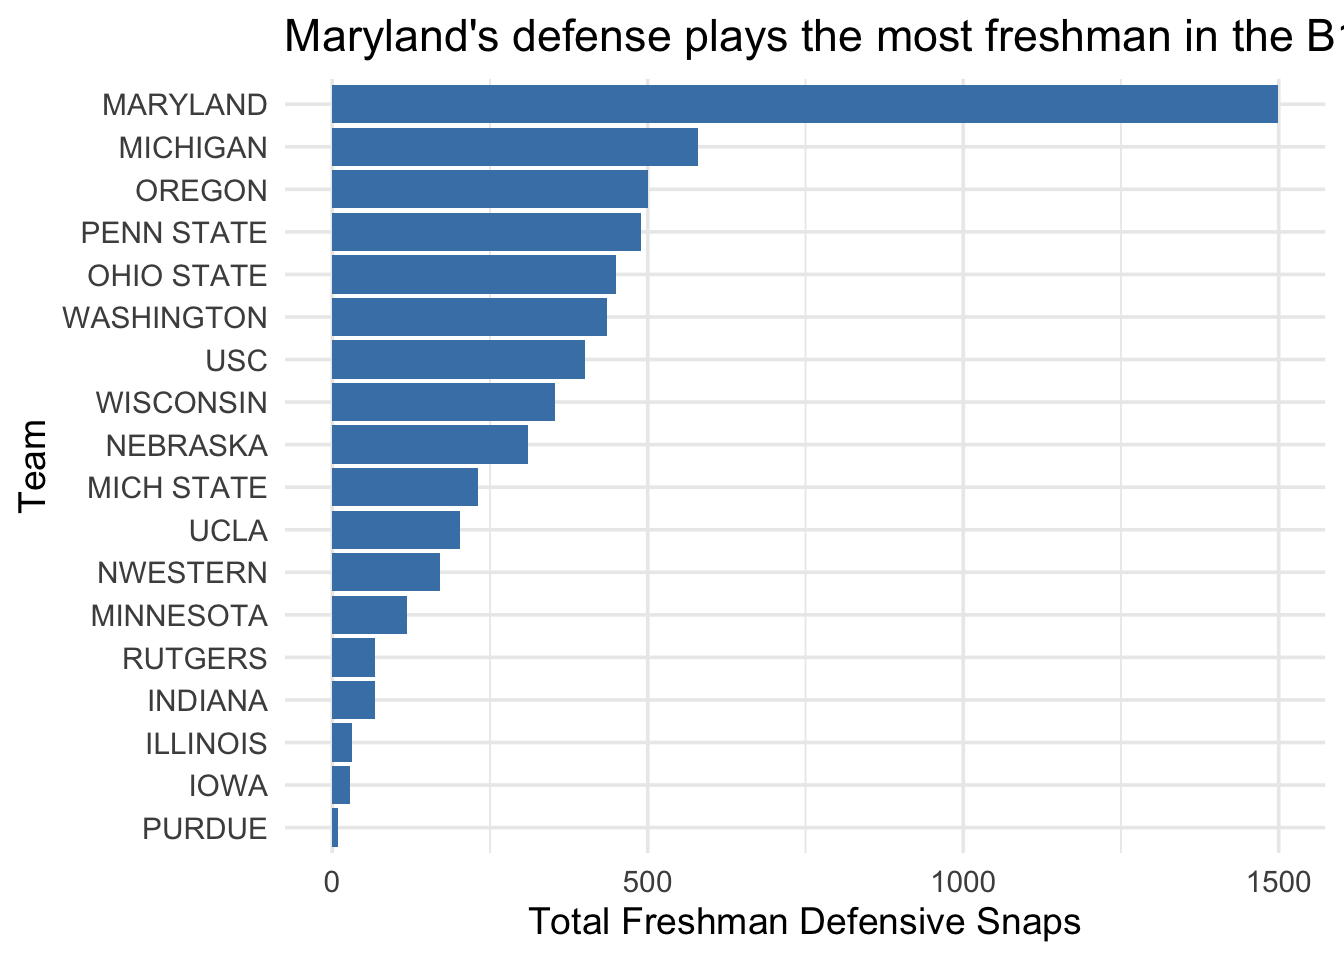
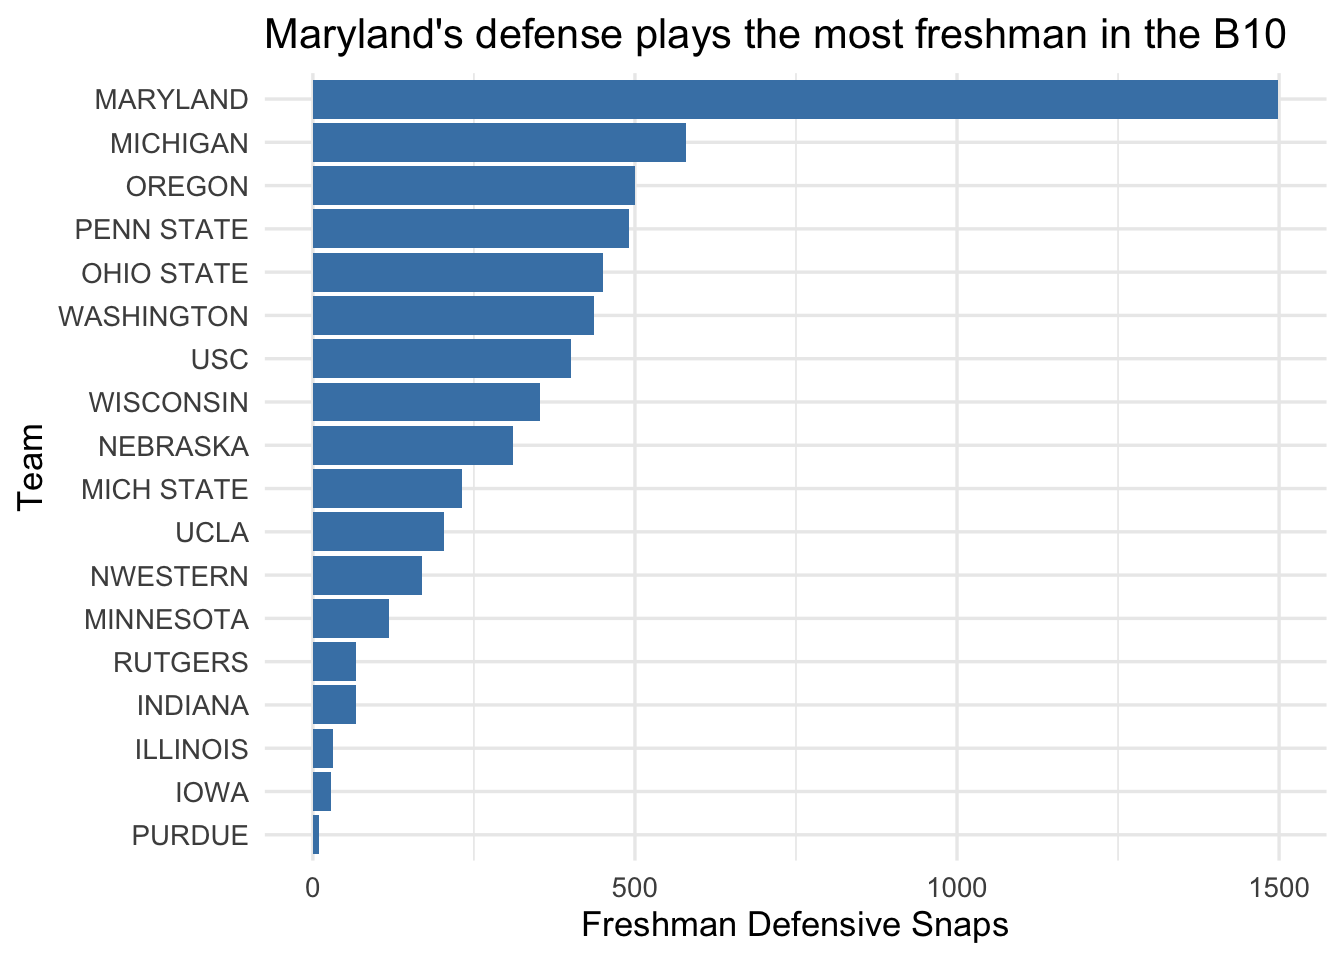
presentation

diff --git a/docs/posts/presentation/presentation.html b/docs/posts/presentation/presentation.html
@@ -617,7 +617,7 @@ lgl  (1): draft_season
 <span id="cb50-4"><a href="#cb50-4" aria-hidden="true" tabindex="-1"></a>  <span class="fu">arrange</span>(<span class="fu">desc</span>(total_snap_counts_defense))</span></code></pre></div><button title="Copy to Clipboard" class="code-copy-button"><i class="bi"></i></button></div>
 </details>
 </div>
-<p>But how do they stack up compared to the Big Ten? Well, historically high. The number of snaps defensive freshman have played for the Terps this season is signficantly higher than the rest of the conference. In fact, the next closest team – Michian – has played freshman almost a third of the time compared to Maryland. The youngest team is going through struggles and while some of this can be placed on the Terps youthness, these are also experienced players at this point. Locksley said the same thing at his recent presser, saying the freshman have become experienced at this point. At this point, Maryland has no excuses</p>
+<p>But how do they stack up compared to the Big Ten? Well, historically high. The number of snaps defensive freshman have played for the Terps this season is signficantly higher than the rest of the conference. In fact, the next closest team – Michian – has played freshman almost a third of the time compared to Maryland. The youngest team is going through struggles and while some of this can be placed on the Terps youthness, these are also experienced players at this point. Locksley said the same thing at his recent presser, saying the freshman have become experienced at this point. At this point, Maryland has no excuses.</p>
 <div class="cell">
 <details class="code-fold">
 <summary>Code</summary>
@@ -628,9 +628,9 @@ lgl  (1): draft_season
 <span id="cb51-5"><a href="#cb51-5" aria-hidden="true" tabindex="-1"></a>  <span class="fu">labs</span>(</span>
 <span id="cb51-6"><a href="#cb51-6" aria-hidden="true" tabindex="-1"></a>    <span class="at">title =</span> <span class="st">"Maryland's defense plays the most freshman in the B10"</span>,</span>
 <span id="cb51-7"><a href="#cb51-7" aria-hidden="true" tabindex="-1"></a>    <span class="at">x =</span> <span class="st">"Team"</span>,</span>
-<span id="cb51-8"><a href="#cb51-8" aria-hidden="true" tabindex="-1"></a>    <span class="at">y =</span> <span class="st">"Total Freshman Defensive Snaps"</span></span>
+<span id="cb51-8"><a href="#cb51-8" aria-hidden="true" tabindex="-1"></a>    <span class="at">y =</span> <span class="st">"Freshman Defensive Snaps"</span></span>
 <span id="cb51-9"><a href="#cb51-9" aria-hidden="true" tabindex="-1"></a>  ) <span class="sc">+</span></span>
-<span id="cb51-10"><a href="#cb51-10" aria-hidden="true" tabindex="-1"></a>  <span class="fu">theme_minimal</span>(<span class="at">base_size =</span> <span class="dv">14</span>)</span></code></pre></div><button title="Copy to Clipboard" class="code-copy-button"><i class="bi"></i></button></div>
+<span id="cb51-10"><a href="#cb51-10" aria-hidden="true" tabindex="-1"></a>  <span class="fu">theme_minimal</span>(<span class="at">base_size =</span> <span class="dv">13</span>)</span></code></pre></div><button title="Copy to Clipboard" class="code-copy-button"><i class="bi"></i></button></div>
 </details>
 <div class="cell-output-display">
 <div>

diff --git a/docs/index.html b/docs/index.html
@@ -228,7 +228,7 @@ I found that teams tyipcally pass the ball much more on third and medium than th
 </a>
 </div>
 </div>
-<div class="quarto-post image-right" data-index="1" data-listing-file-modified-sort="1761570866723" data-listing-reading-time-sort="1" data-listing-word-count-sort="122">
+<div class="quarto-post image-right" data-index="1" data-listing-file-modified-sort="1762178628587" data-listing-reading-time-sort="2" data-listing-word-count-sort="318">
 <div class="thumbnail"><a href="./posts/presentation/background.html" class="no-external">
 
 <p class="card-img-top"><img src="posts/presentation/background_files/figure-html/unnamed-chunk-10-1.png"  class="thumbnail-image card-img"/></p>
@@ -252,7 +252,7 @@ I found that teams tyipcally pass the ball much more on third and medium than th
 </a>
 </div>
 </div>
-<div class="quarto-post image-right" data-index="2" data-listing-date-sort="1762056000000" data-listing-file-modified-sort="1762136073977" data-listing-date-modified-sort="NaN" data-listing-reading-time-sort="3" data-listing-word-count-sort="573">
+<div class="quarto-post image-right" data-index="2" data-listing-date-sort="1762056000000" data-listing-file-modified-sort="1762280885024" data-listing-date-modified-sort="NaN" data-listing-reading-time-sort="3" data-listing-word-count-sort="571">
 <div class="thumbnail"><a href="./posts/presentation/presentation.html" class="no-external">
 
 <p class="card-img-top"><img src="posts/presentation/presentation_files/figure-html/unnamed-chunk-10-1.png"  class="thumbnail-image card-img"/></p>
